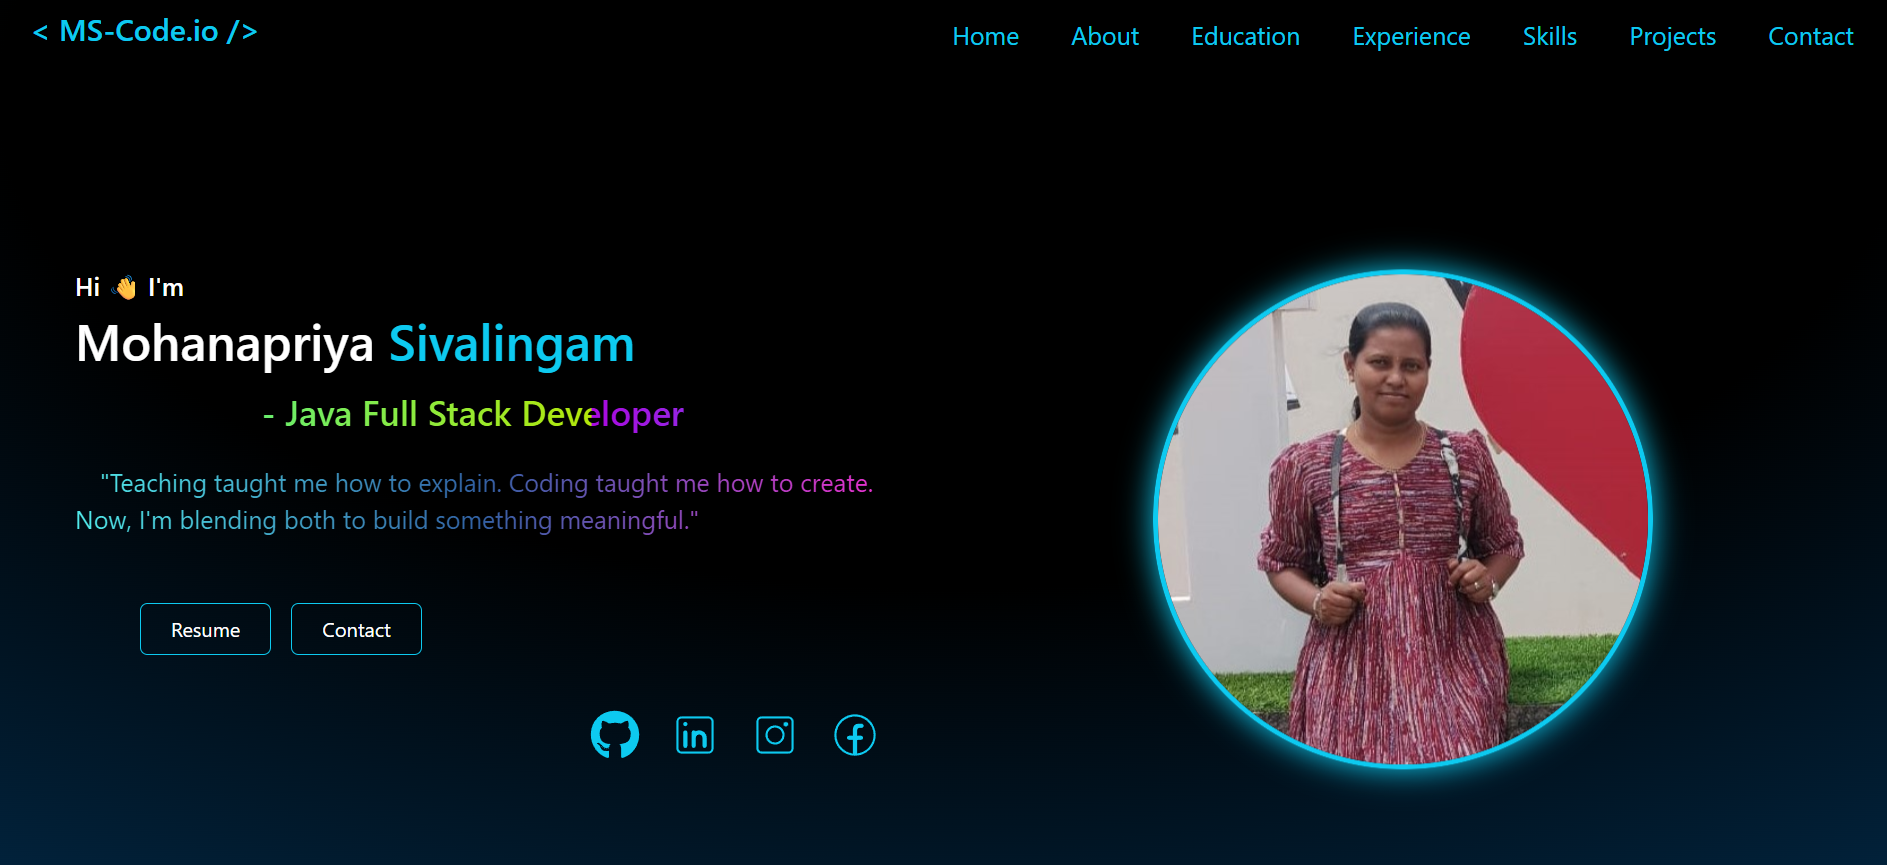
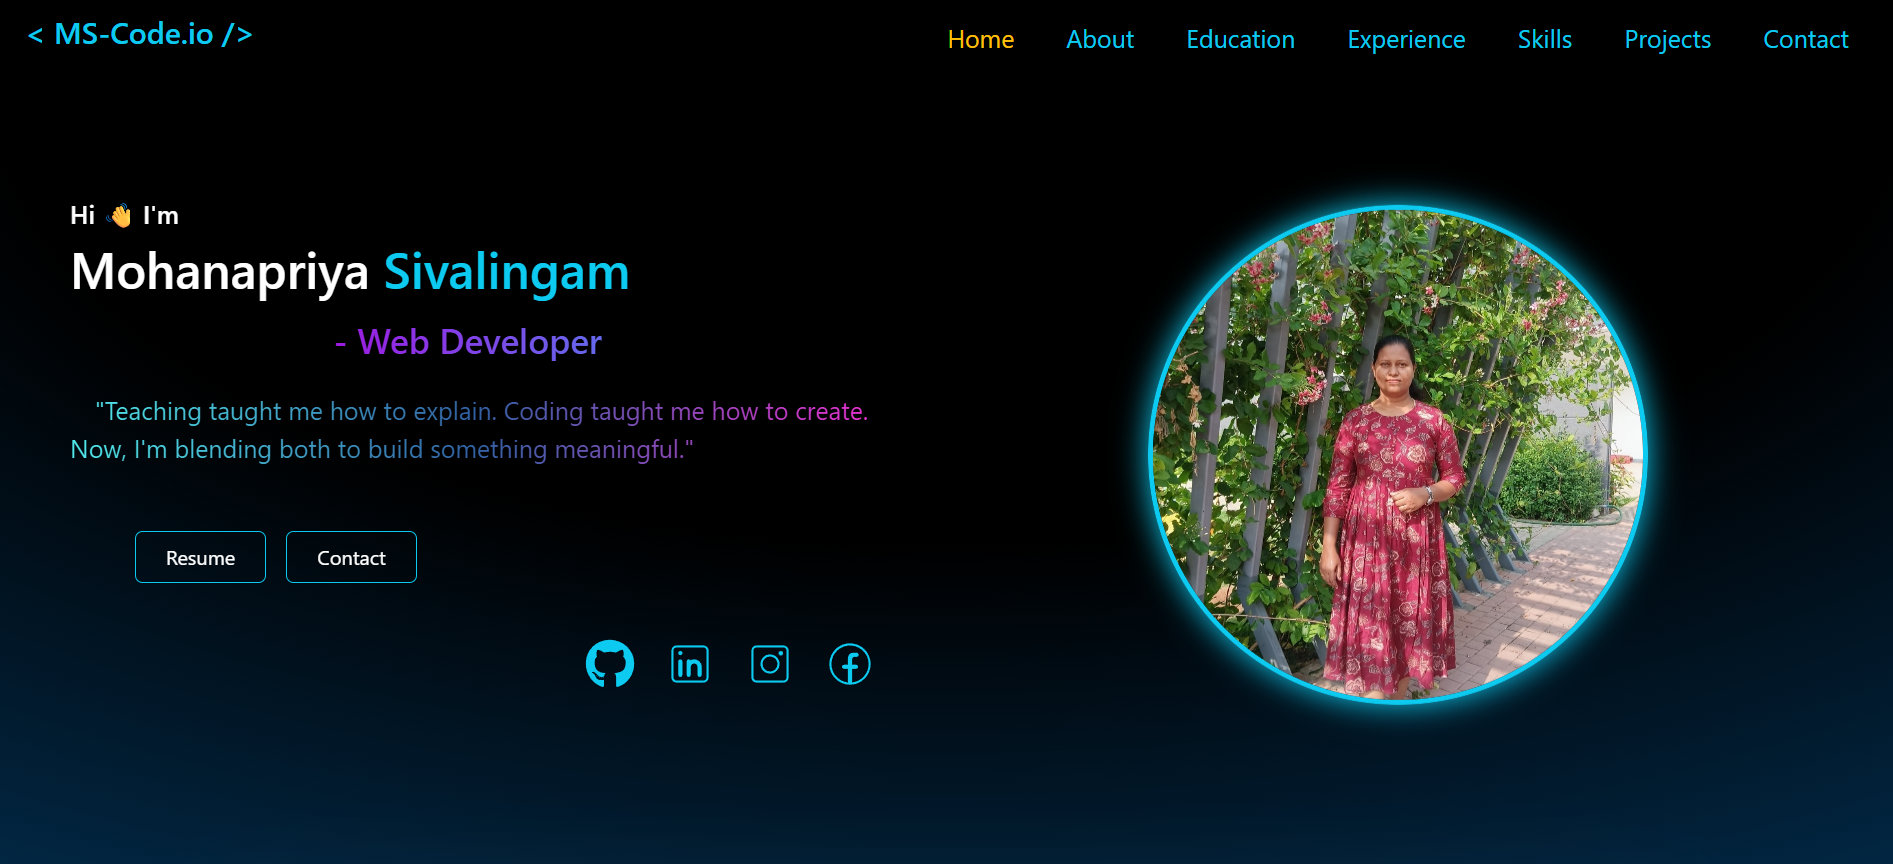
updated project image

diff --git a/src/data/projects.js b/src/data/projects.js
@@ -5,7 +5,7 @@ import employee from "../assets/images/employee.png"
 import movieticket from "../assets/images/movieticket.png"
 import portfolio from "../assets/images/portfolio.png"      
 import student from "../assets/images/student.png"
-import todolist from "../assets/images/todolist.png"
+import todolist from "../assets/images/Todolist.png"
 import formvalidation from "../assets/images/formvalidation.png"
 import login from "../assets/images/login.png"  
 import pytodo from "../assets/images/pythontodo.png"
